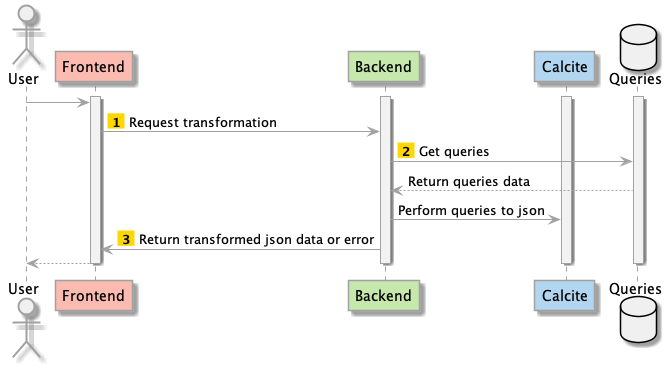
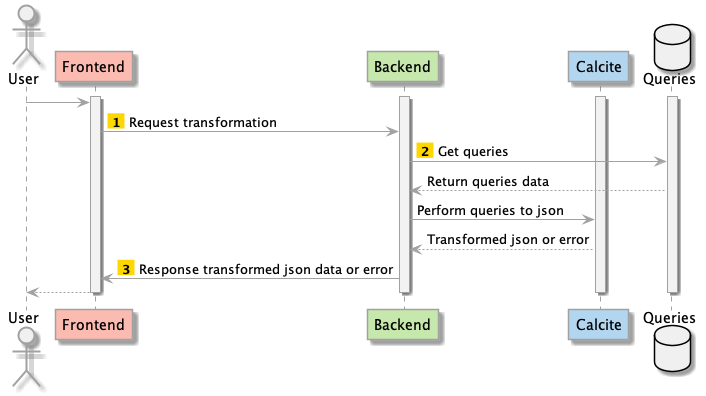
docs(README) : fix diagram sequence

Changed region(s): [[0.0, 0.0, 1.0, 0.9891], [0.0312, 0.6894, 0.0625, 0.7493]]

diff --git a/modules/scalcite-docs/src/main/mdoc/README.md b/modules/scalcite-docs/src/main/mdoc/README.md
@@ -79,13 +79,12 @@ Is a UI project created with React using Slinky
 !pragma graphviz_dot jdot
 
 skinparam sequence {
-ArrowColor #A1A1A1
-LifeLineBorderColor #A1A1A1
-LifeLineBackgroundColor #F2F2F2
-ActorBorderColor #A1A1A1
-ParticipantBorderColor #A1A1A1
-DatabaseBorderColor #A1A1A1
-
+    ArrowColor #A1A1A1
+    LifeLineBorderColor #A1A1A1
+    LifeLineBackgroundColor #F2F2F2
+    ActorBorderColor #A1A1A1
+    ParticipantBorderColor #A1A1A1
+    DatabaseBorderColor #A1A1A1
 }
 actor User as u #F0F0F0
 participant "Frontend" as sap #FBBBB1
@@ -108,9 +107,9 @@ ws -> ad : Get queries
 autonumber stop
 ad --> ws : Return queries data
 ws -> lo : Perform queries to json
-
+lo --> ws : Transformed json or error
 autonumber 3 "<back:gold><b> 0 </back>"
-ws -> sap : Return transformed json data or error
+ws -> sap : Response transformed json data or error
 autonumber stop
 
 sap --> u
@@ -120,6 +119,7 @@ deactivate sap
 deactivate ws
 deactivate lo
 deactivate ad
+
 @enduml
 
 
